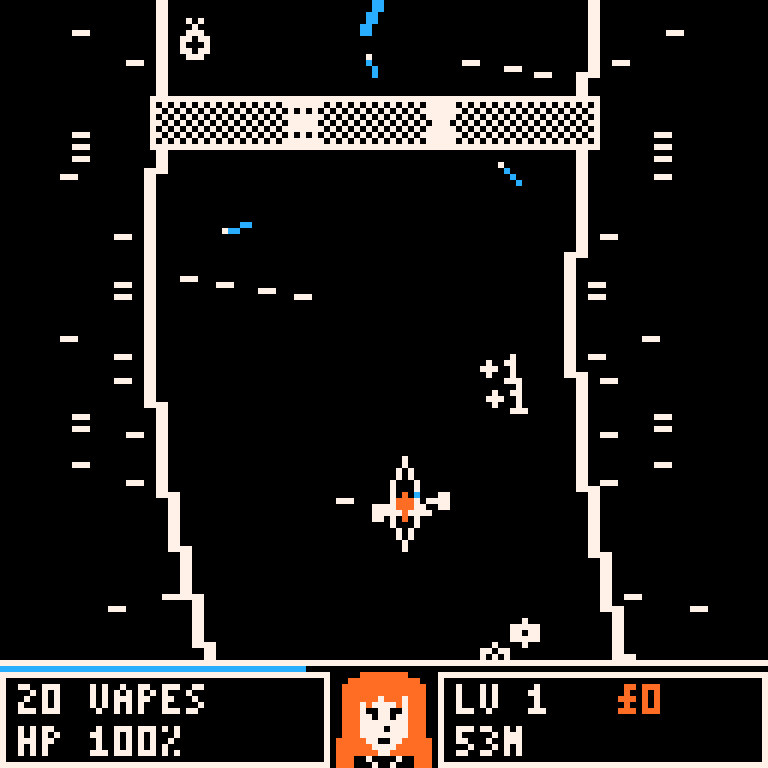
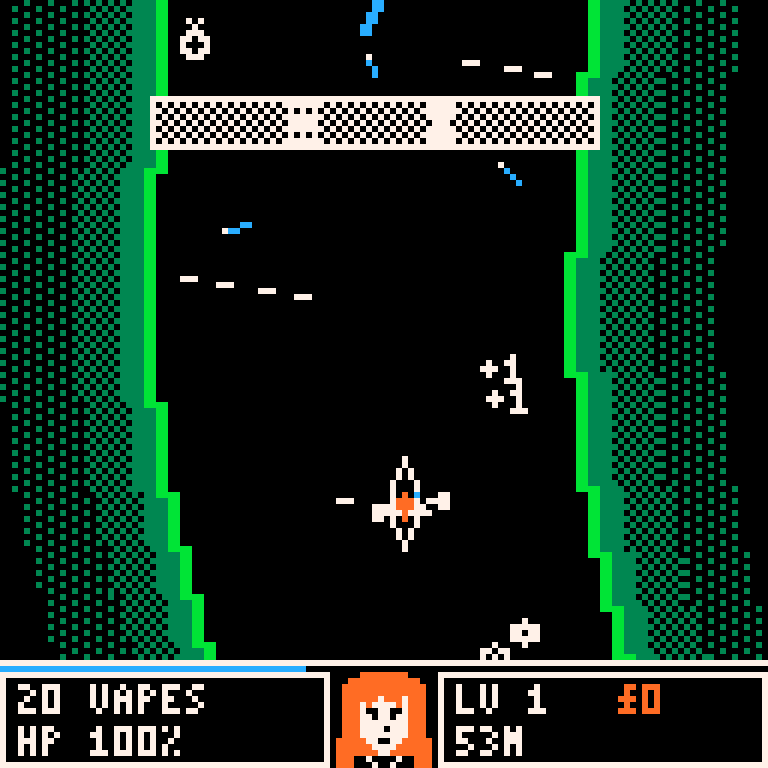
PICO-8: fix vape cloud level cards, visible change every level; biome-coloured dithered banks; volcano final biome
Claude-Session: https://claude.ai/code/session_01S2Hf6TsBMuAVh5xAyG46JG

Changed region(s): [[0.7188, 0.0, 1.0, 0.875], [0.0, 0.0, 0.2812, 0.875]]

diff --git a/marketing/pico8/launch-kit.md b/marketing/pico8/launch-kit.md
@@ -33,9 +33,9 @@ The forum takes carts as `.p8.png`. In PICO-8: `load vape-kayak.p8`, then `save 
 
 > A political-satire endless runner that turns into a bullet heaven.
 >
-> You paddle a kayak down a procedurally generated canal, hoovering up spinning vapes. Every vape is XP; every level is a choice of three upgrades. Your little puff of vapour grows into clouds in eight directions, a toxic trail, orbiting storm clouds and blasts that clear the screen. By the jungle, the swans and paparazzi are the ones running.
+> You paddle a kayak down a procedurally generated canal, hoovering up spinning vapes. Every vape is XP; every level is a choice of three upgrades. Your little puff of vapour grows into clouds in eight directions, a toxic trail, orbiting storm clouds and blasts that clear the screen. By the volcano, the swans and paparazzi are the ones running.
 >
-> - Three biomes, each with its own chiptune: British canal, desert, jungle
+> - Three biomes, each with its own chiptune and bank colours: British canal, desert, volcano
 > - 4 weapons plus Vape Rings, 6 passives, 4 evolutions
 > - Cash shop between runs: Vape Engine, Political Immunity and more
 > - Boost-ram enemies with the bow of the kayak
@@ -55,7 +55,7 @@ The forum takes carts as `.p8.png`. In PICO-8: `load vape-kayak.p8`, then `save 
 >
 > [trailer.gif]
 >
-> It starts as a simple runner: dodge barges and low bridges, collect vapes. Then the auto-firing clouds level up until you're melting hordes in the jungle. Built for 60 fps on cheap retro handhelds too. Happy to talk about fitting a survivors-like into 8,192 tokens: the weapon stats all live in `split()` strings.
+> It starts as a simple runner: dodge barges and low bridges, collect vapes. Then the auto-firing clouds level up until you're melting hordes by the volcano. Built for 60 fps on cheap retro handhelds too. Happy to talk about fitting a survivors-like into 8,192 tokens: the weapon stats all live in `split()` strings.
 
 **r/SBCGaming, r/R36S, r/RetroHandhelds**
 

diff --git a/pico8/README.md b/pico8/README.md
@@ -37,8 +37,8 @@ Progress (cash, shop upgrades, best run) is saved by PICO-8's `cartdata` on the 
 The handheld cart keeps the same game, rebuilt for a 128×128 screen, physical buttons and the cart's size limit:
 
 - **Steering:** hold-to-paddle with momentum instead of tap nudges, which suits a d-pad. Menus are d-pad lists; any face button selects.
-- **Everything else from the browser version:** three biomes with their own music, spinning vapes, level-ups with 3 choices, all four cloud weapons plus Vape Rings, +1 Cloud and the four evolutions. Also the enemies with red outlines, tea, cash, the shop (Vape Engine, five-level Engine Tuning, Thick Skin, Political Immunity and the rest), boost ramming, red banks in the late game, the face portrait in a bottom status bar, and the satire.
-- **Music:** original chiptunes written for the cart: an A-minor theme on the canal and title, a phrygian "desert" theme, and a faster jungle version. The browser version's MP3s aren't used: a PICO-8 cart can only hold its own tracker music.
+- **Everything else from the browser version:** three biomes (canal, desert, volcano) with their own music, and banks coloured per biome, spinning vapes, level-ups with 3 choices, all four cloud weapons plus Vape Rings, +1 Cloud and the four evolutions. Also the enemies with red outlines, tea, cash, the shop (Vape Engine, five-level Engine Tuning, Thick Skin, Political Immunity and the rest), boost ramming, red banks in the late game, the face portrait in a bottom status bar, and the satire.
+- **Music:** original chiptunes written for the cart: an A-minor theme on the canal and title, a phrygian "desert" theme, and a faster volcano version. The browser version's MP3s aren't used: a PICO-8 cart can only hold its own tracker music.
 - **Cut for space:** lock gates, the heat-haze mirage barges and the side-art border. The How-to-Play screen is a single page.
 
 ## Development
